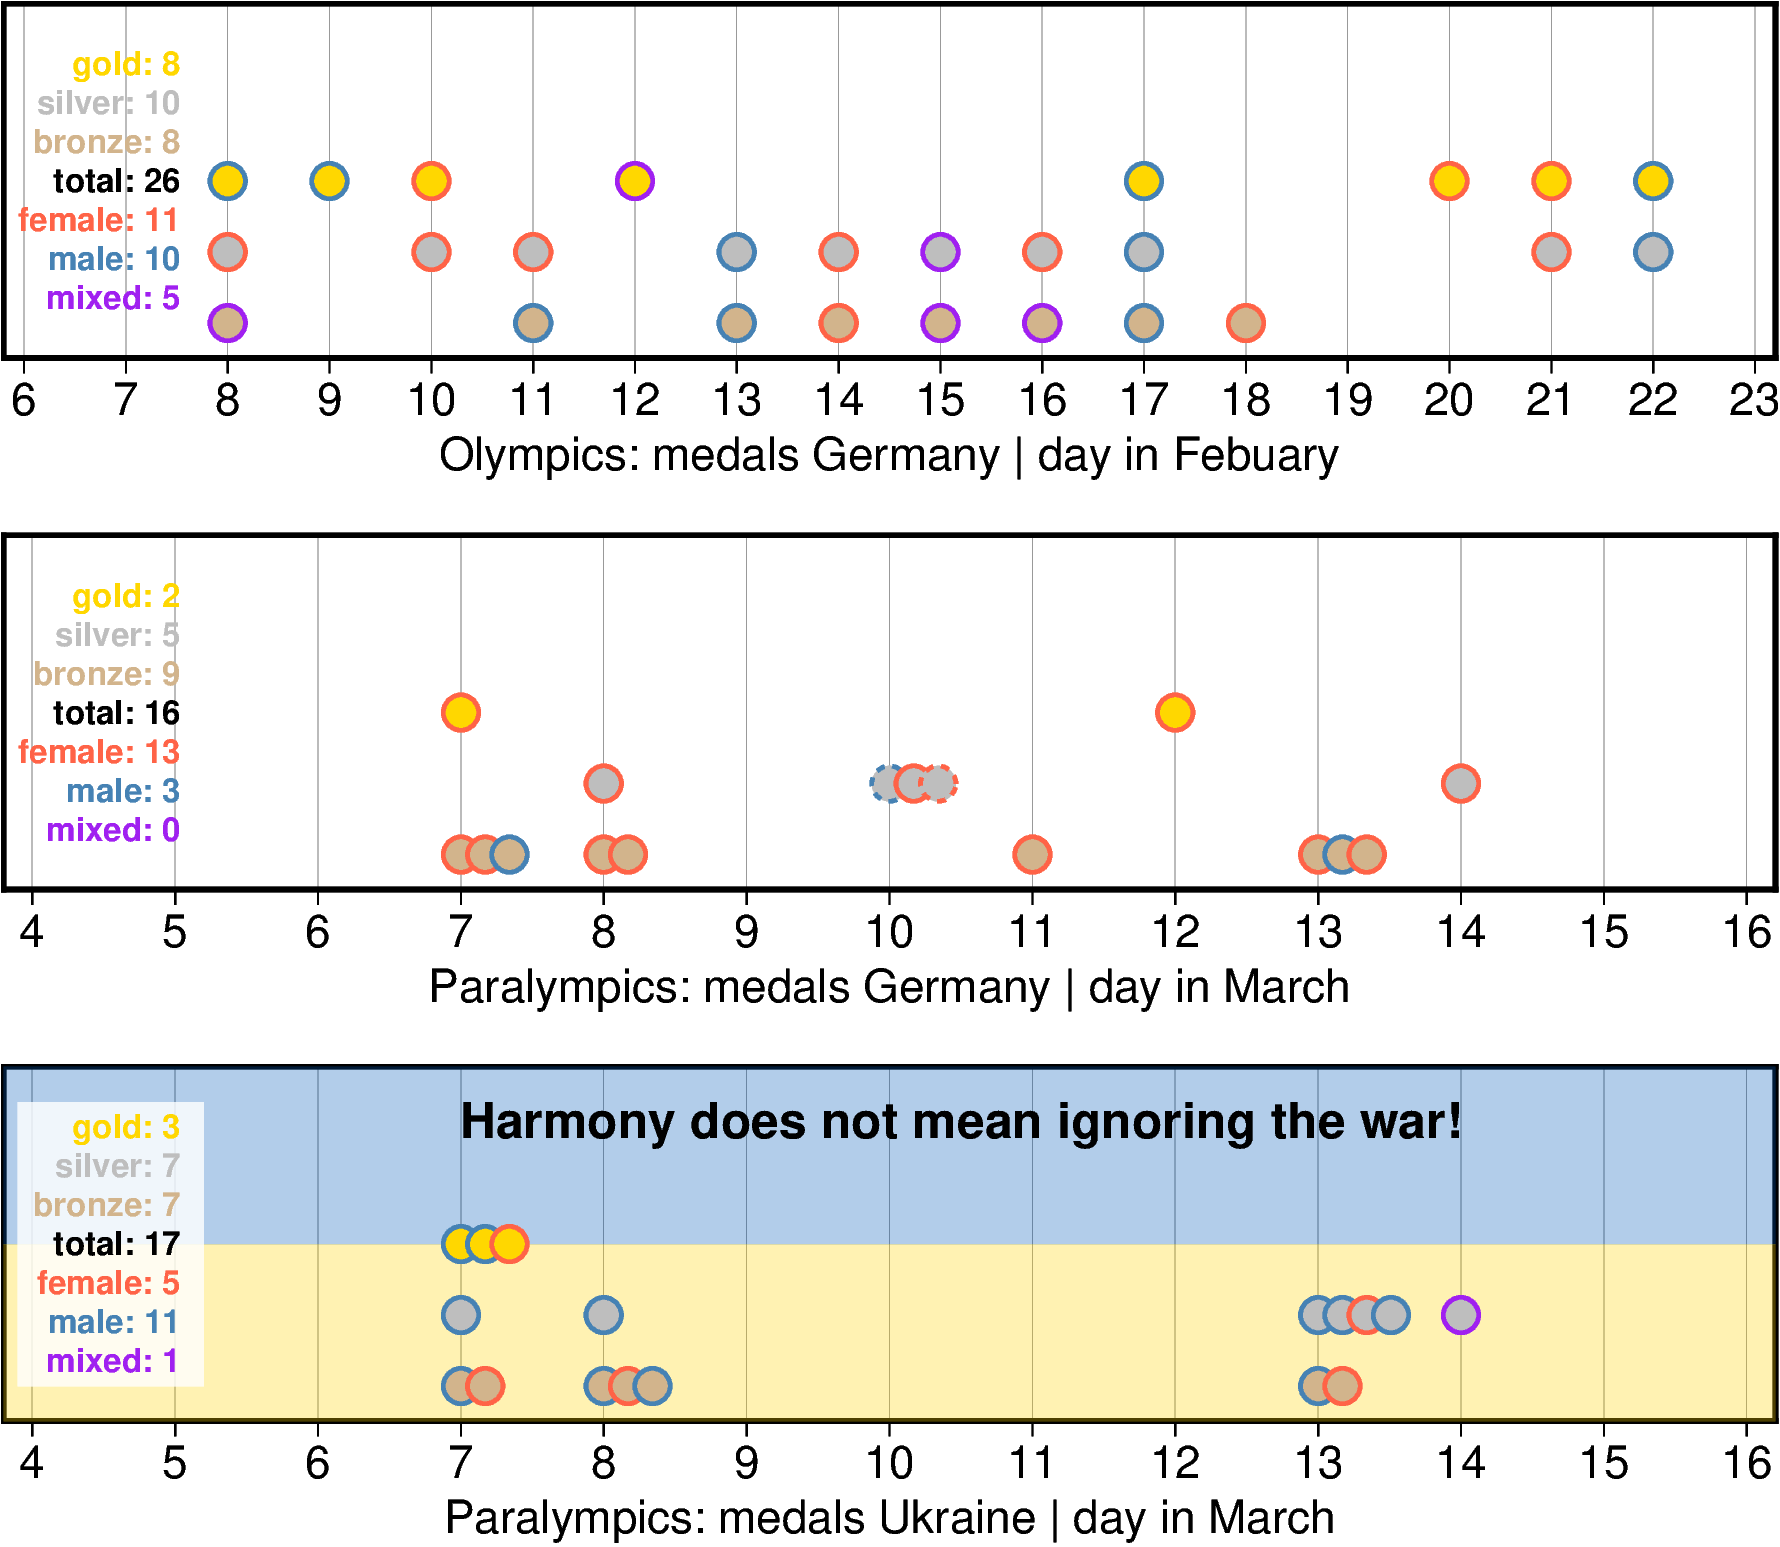
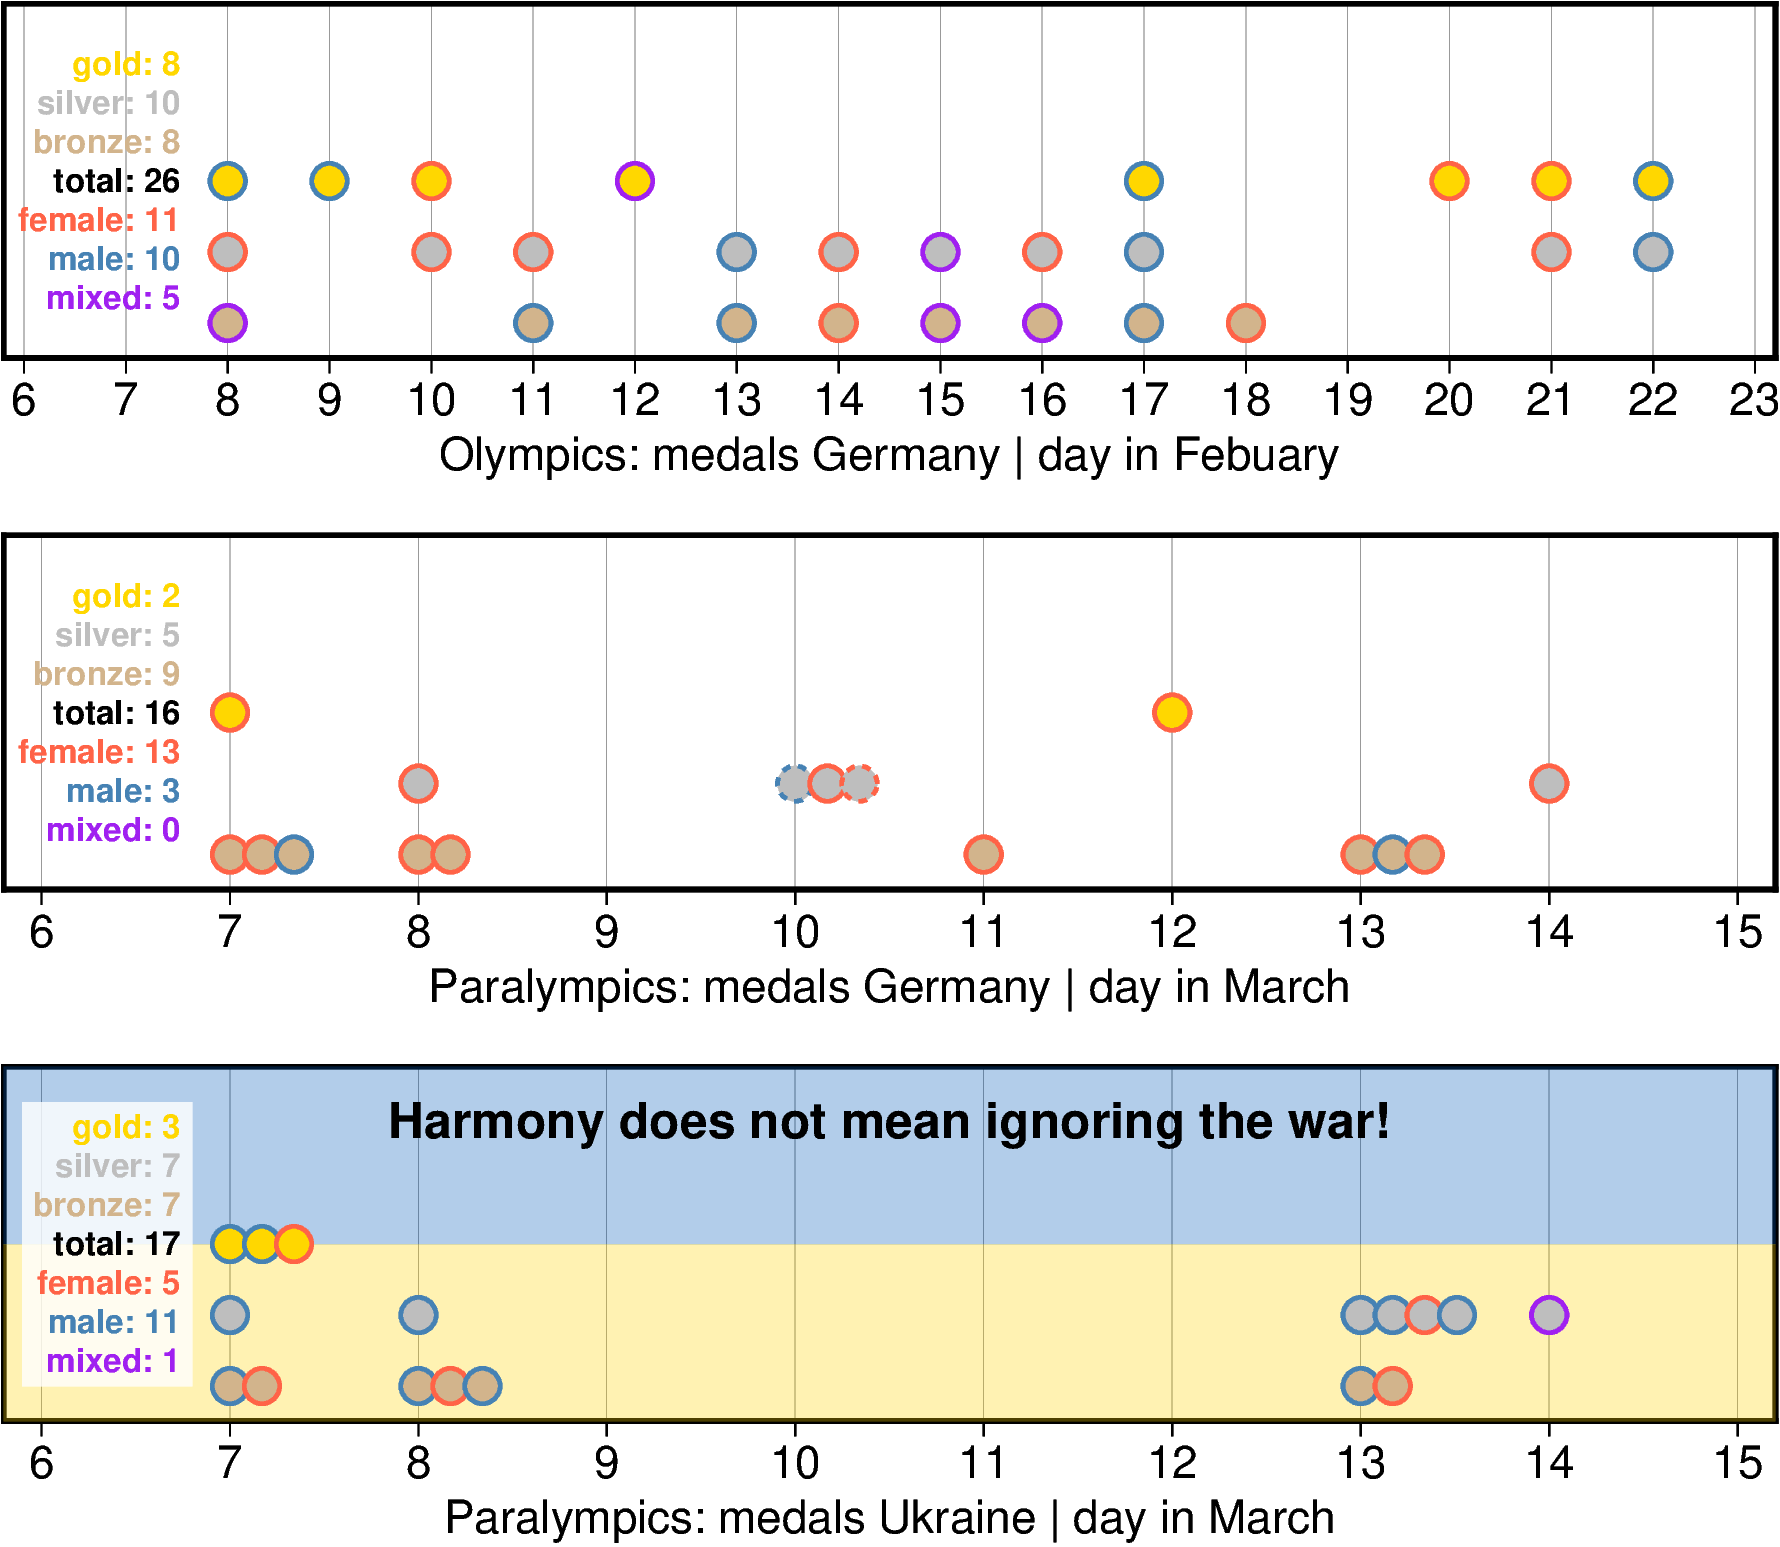
Adjust time range

diff --git a/016_winter_games_2026/05_medals.py b/016_winter_games_2026/05_medals.py
@@ -47,7 +47,7 @@ for event, country in zip(
             region = [5.8, 23.2, 0.001, 1]
         case "paralympics":
             month = "March"
-            region = [3.8, 16.2, 0.001, 1]
+            region = [5.8, 15.2, 0.001, 1]
 
     df_medals = pd.read_csv(f"{path_in}/medals_{country}_{event}.txt", sep=";")
     xlabel = f"{event.capitalize()}: medals {country.capitalize()} | day in {month}"
@@ -71,7 +71,7 @@ for event, country in zip(
             justify="MC",
         )
         fig.plot(
-            x=[3.9, 5.2, 5.2, 3.9, 3.9],
+            x=[5.9, 6.8, 6.8, 5.9, 5.9],
             y=[0.1, 0.1, 0.9, 0.9, 0.1],
             fill="white@20",
         )
